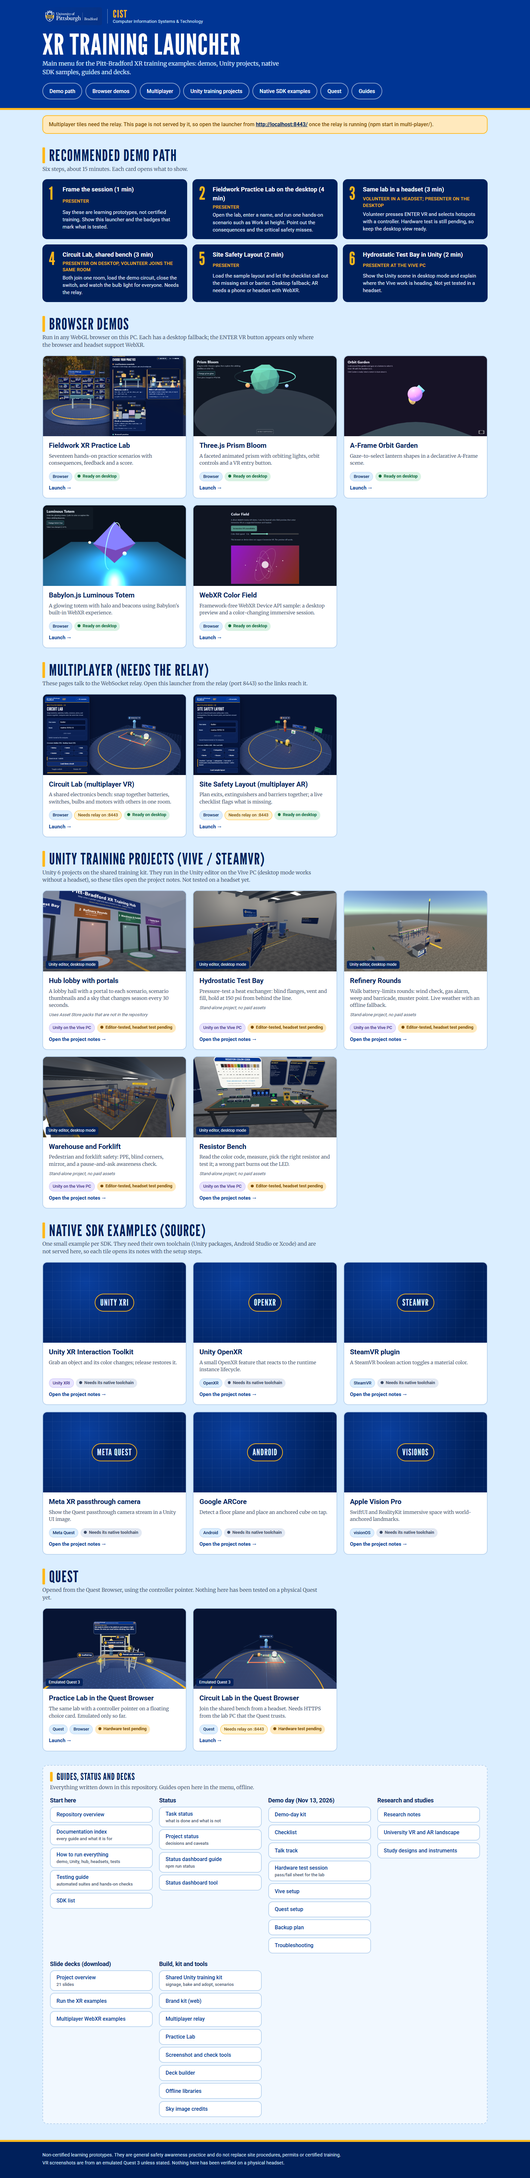
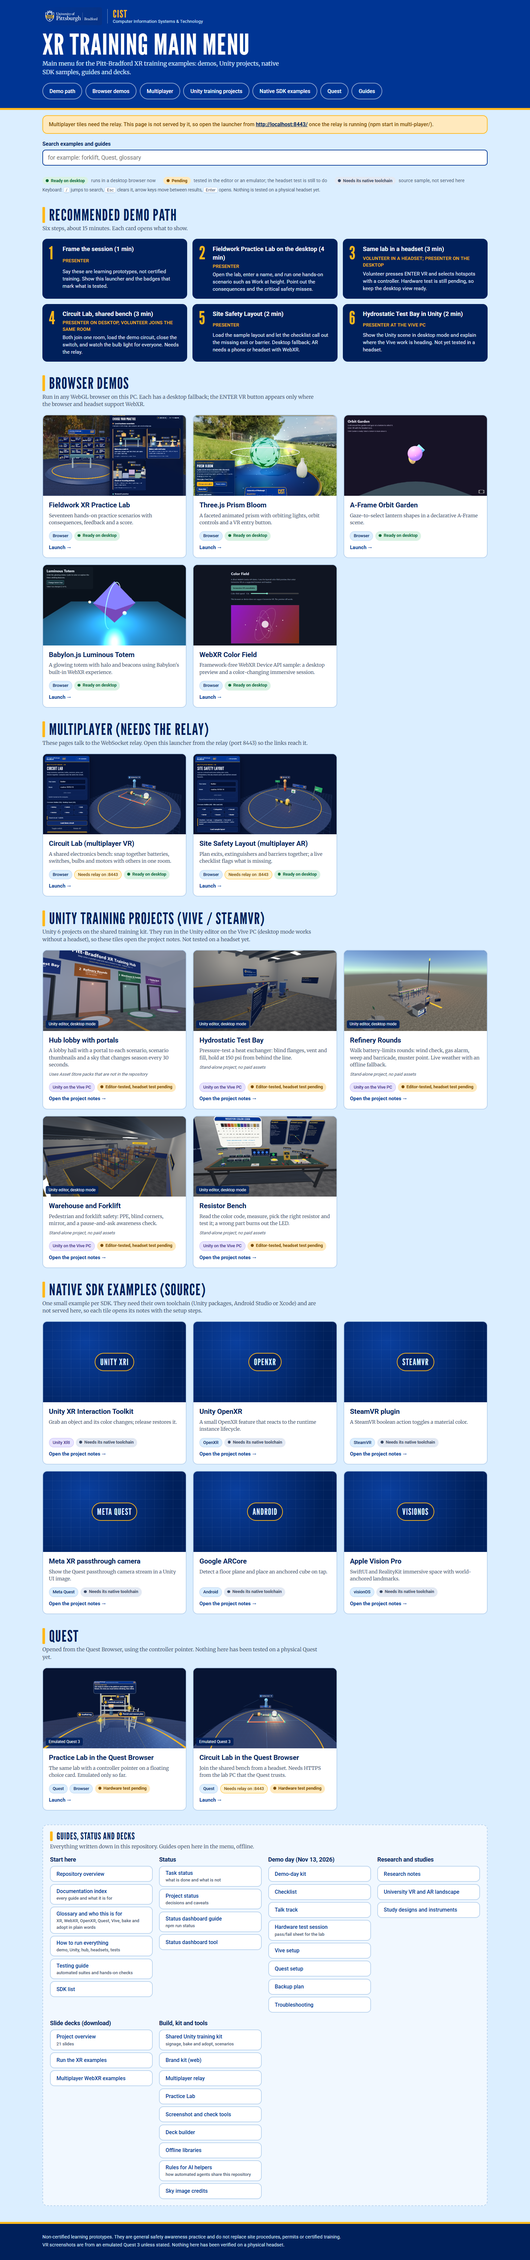
Docs: docs-check script, glossary, demo-day quick start, native sample verification notes, menu search and legend

diff --git a/launcher/launcher.js b/launcher/launcher.js
@@ -40,6 +40,7 @@
       el("span", { class: "go", text: ex.webServed === false ? "Open the project notes" : "Launch" })
     ]);
     var a = el("a", { class: "tile", href: /\.md$/i.test(ex.url) ? "launcher/doc.html?f=" + encodeURIComponent(ex.url) : ex.url, id: "tile-" + ex.id }, [shot, body]);
+    a.setAttribute("data-search", [ex.title, ex.summary, ex.note, ex.status, ex.badges.join(" "), ex.id].join(" ").toLowerCase());
     a.setAttribute("aria-label", ex.title + ". " + ex.status + ". " + ex.badges.join(", ") + (ex.note ? ". " + ex.note : ""));
     return a;
   }
@@ -95,7 +96,7 @@
       var ul = el("ul");
       g.links.forEach(function (t) {
         var href = /\.md$/i.test(t.url) ? "launcher/doc.html?f=" + encodeURIComponent(t.url) : t.url;
-        var a = el("a", { href: href, id: "guide-" + t.id }, [document.createTextNode(t.title), t.note ? el("small", { text: t.note }) : null]);
+        var a = el("a", { href: href, id: "guide-" + t.id, "data-search": [t.title, t.note || "", g.title, t.id].join(" ").toLowerCase() }, [document.createTextNode(t.title), t.note ? el("small", { text: t.note }) : null]);
         ul.appendChild(el("li", {}, [a]));
       });
       groups.appendChild(el("section", { class: "group", "aria-labelledby": "g-" + g.id }, [el("h3", { id: "g-" + g.id, text: g.title }), ul]));
@@ -114,12 +115,53 @@
     }
   }
 
+  // Search / filter: client-side only. Tiles and guide links carry a data-search string.
+  function setupFinder() {
+    var q = document.getElementById("q"), clear = document.getElementById("clear"), count = document.getElementById("count");
+    var links = [].slice.call(document.querySelectorAll("#sections .tile, #tools .group a"));
+    var path = document.getElementById("path");
+    q.disabled = false;
+
+    function apply() {
+      var terms = q.value.toLowerCase().split(/\s+/).filter(Boolean), shown = 0;
+      links.forEach(function (a) {
+        var hay = a.getAttribute("data-search"), ok = terms.every(function (t) { return hay.indexOf(t) >= 0; });
+        var holder = a.classList.contains("tile") ? a : a.parentNode; // guide links sit in an li
+        holder.hidden = !ok;
+        if (ok) shown++;
+      });
+      [].forEach.call(document.querySelectorAll("section.block[id^=sec-], .group"), function (sec) {
+        sec.hidden = !!terms.length && !sec.querySelector(sec.classList.contains("group") ? "li:not([hidden])" : ".tile:not([hidden])");
+      });
+      path.hidden = !!terms.length;
+      document.getElementById("tools").hidden = !!terms.length && !document.querySelector("#tools li:not([hidden])");
+      clear.hidden = !terms.length;
+      count.textContent = terms.length ? (shown ? shown + " match" + (shown === 1 ? "" : "es") + " for “" + q.value.trim() + "”." : "Nothing matches “" + q.value.trim() + "”. Try a shorter word.") : "";
+    }
+    function visible() { return links.filter(function (a) { return !a.closest("[hidden]"); }); }
+
+    q.addEventListener("input", apply);
+    clear.addEventListener("click", function () { q.value = ""; apply(); q.focus(); });
+    document.addEventListener("keydown", function (e) {
+      var tag = (e.target.tagName || "").toLowerCase();
+      if (e.key === "/" && tag !== "input" && !e.ctrlKey && !e.metaKey && !e.altKey) { e.preventDefault(); q.focus(); q.select(); return; }
+      if (e.key === "Escape" && (q.value || document.activeElement === q)) { q.value = ""; apply(); q.blur(); return; }
+      var list = visible(), i = list.indexOf(document.activeElement), k = e.key;
+      if (e.target === q && k === "ArrowDown" && list.length) { e.preventDefault(); list[0].focus(); return; }
+      if (i < 0) return;
+      var next = k === "ArrowRight" || k === "ArrowDown" ? i + 1 : k === "ArrowLeft" || k === "ArrowUp" ? i - 1 : k === "Home" ? 0 : k === "End" ? list.length - 1 : null;
+      if (next === null) return;
+      e.preventDefault();
+      if (next < 0) q.focus(); else if (list[next]) list[next].focus();
+    });
+  }
+
   // The Pitt-Bradford + CIST brand bar is built by brand-kit/brand.js (logo if the local file exists, else a wordmark).
 
   fetch("launcher/examples.json").then(function (r) {
     if (!r.ok) throw new Error("HTTP " + r.status);
     return r.json();
-  }).then(render).catch(function (err) {
+  }).then(function (data) { render(data); setupFinder(); }).catch(function (err) {
     document.getElementById("sections").appendChild(el("p", { class: "noscript", text: "Could not load launcher/examples.json (" + err.message + "). Serve this folder over http, for example python -m http.server 8101." }));
   });
 })();

diff --git a/index.html b/index.html
@@ -3,7 +3,7 @@
 <head>
   <meta charset="utf-8">
   <meta name="viewport" content="width=device-width, initial-scale=1">
-  <title>XR Training Launcher · Pitt-Bradford CIST</title>
+  <title>XR Training Main Menu · Pitt-Bradford CIST</title>
   <meta name="description" content="Launch the Pitt-Bradford XR training examples: browser demos, multiplayer, Vive and Quest.">
   <link rel="stylesheet" href="brand-kit/brand.css">
   <link rel="stylesheet" href="launcher/launcher.css">
@@ -14,13 +14,28 @@
   <header class="top">
     <div class="wrap top-inner">
       <div class="brand" data-pitt-brand></div>
-      <h1>XR Training Launcher</h1>
+      <h1>XR Training Main Menu</h1>
       <p class="lede" id="subtitle">Pitt-Bradford XR training examples. Pick a tile to launch it.</p>
       <nav class="jump" aria-label="Sections" id="jump"></nav>
     </div>
   </header>
 
   <div id="relay-note" class="wrap relay-note" hidden role="note"></div>
+
+  <div class="wrap finder" role="search">
+    <label for="q">Search examples and guides</label>
+    <div class="finder-row">
+      <input type="search" id="q" placeholder="for example: forklift, Quest, glossary" autocomplete="off" aria-controls="sections tools" disabled>
+      <button type="button" id="clear" hidden>Clear</button>
+    </div>
+    <p id="count" class="count" role="status" aria-live="polite"></p>
+    <ul class="legend" aria-label="What the status badges mean">
+      <li><span class="badge status ready">Ready on desktop</span> runs in a desktop browser now</li>
+      <li><span class="badge status pending">Pending</span> tested in the editor or an emulator; the headset test is still to do</li>
+      <li><span class="badge status planned">Needs its native toolchain</span> source sample, not served here</li>
+    </ul>
+    <p class="hint">Keyboard: <kbd>/</kbd> jumps to search, <kbd>Esc</kbd> clears it, arrow keys move between results, <kbd>Enter</kbd> opens. Nothing is tested on a physical headset yet.</p>
+  </div>
 
   <main id="main" class="wrap">
     <noscript><p class="noscript">This launcher needs JavaScript to list the examples. The folders a-frame, threejs, babylonjs, webxr, training-simulations and multi-player can still be opened directly.</p></noscript>

diff --git a/launcher/launcher.css b/launcher/launcher.css
@@ -165,3 +165,20 @@ a:focus-visible, button:focus-visible {
 .tools .group ul { flex-direction: column; flex-wrap: nowrap; gap: 0.4rem; margin-top: 0.4rem; }
 .tools .group a { display: flex; flex-direction: column; align-items: flex-start; justify-content: center; border-radius: 0.8rem; }
 .tools .group small { margin: 0; font-size: 0.82rem; }
+
+/* search, legend, keyboard hint */
+[hidden] { display: none !important; }
+.finder { padding: 1.2rem 0 0; }
+.finder label { display: block; font-weight: 700; color: var(--navy); margin-bottom: 0.35rem; }
+.finder-row { display: flex; gap: 0.6rem; }
+.finder input[type="search"] {
+  flex: 1; min-width: 0; font: inherit; font-size: 1.1rem; min-height: 3rem; padding: 0.5rem 0.9rem;
+  border: 2px solid var(--royal); border-radius: 0.6rem; background: #fff; color: var(--ink);
+}
+.finder input[type="search"]:focus-visible { outline: 0.25rem solid var(--gold); outline-offset: 0.15rem; }
+.finder button { font: inherit; font-weight: 700; min-height: 3rem; padding: 0 1.2rem; border-radius: 0.6rem; border: 2px solid var(--royal); background: var(--royal); color: #fff; cursor: pointer; }
+.count { min-height: 1.4rem; margin: 0.4rem 0 0; color: var(--navy); font-weight: 500; }
+.legend { list-style: none; margin: 0.4rem 0 0; padding: 0; display: flex; flex-wrap: wrap; gap: 0.5rem 1.4rem; font-size: 0.9rem; color: var(--muted); }
+.legend .badge { margin-right: 0.3rem; }
+.hint { margin: 0.5rem 0 0; font-size: 0.85rem; color: var(--muted); }
+kbd { font: inherit; font-size: 0.8rem; border: 1px solid var(--line); border-bottom-width: 2px; border-radius: 0.3rem; padding: 0 0.35rem; background: #fff; }

diff --git a/docs/GLOSSARY.md b/docs/GLOSSARY.md
@@ -1,0 +1,53 @@
+# Glossary and who this is for
+
+Plain-language meanings of the terms used in this repository, written for the advisory board, employers and faculty. Nothing here assumes you have used a headset.
+
+General safety-awareness practice only: none of the scenarios is a procedure, permit or certification. Nothing in this repository has been verified on a real Vive Pro 2 or Meta Quest yet; the guides say what was actually run (desktop browsers, the Unity editor, an emulated Quest 3).
+
+## Who is this for?
+
+| If you are... | Start with | What you will get |
+|---|---|---|
+| An employer or advisory-board member | The main menu, then [demo-day/TALK-TRACK.md](demo-day/TALK-TRACK.md) | A short demo path: the browser practice lab, a shared multi-user bench and the Unity training scenes, with the limits stated |
+| A faculty member (industrial, energy, biology) | [research/README.md](research/README.md) and the scenario list in [../training-simulations/README.md](../training-simulations/README.md) | What each scenario teaches, what is a draft for review, and study ideas |
+| A student or instructor who will run it | [HOW-TO-RUN.md](HOW-TO-RUN.md) | The three-step quick start and the full run guide |
+| A developer extending it | [../CLAUDE.md](../CLAUDE.md), [README.md](README.md) and [../SDK-list.md](../SDK-list.md) | Repository conventions, the documentation index and the SDK samples |
+| Setting up a headset | [demo-day/VIVE-SETUP.md](demo-day/VIVE-SETUP.md) or [demo-day/QUEST-SETUP.md](demo-day/QUEST-SETUP.md) | Steps for the first hardware session (still to be run) |
+
+## Terms
+
+**XR (extended reality).** The umbrella word for virtual, mixed and augmented reality together.
+
+**VR (virtual reality).** A headset replaces what you see with a computer-made place. Used here for training you could not do safely or cheaply in real life.
+
+**AR (augmented reality).** Computer graphics are added on top of the real world, usually seen through a phone or tablet camera.
+
+**MR (mixed reality).** A headset shows the real room and virtual objects together, so virtual things can sit on a real table. Meta Quest headsets do this with passthrough cameras.
+
+**WebXR.** A browser standard that lets a web page show VR or AR. Our web demos use it, so a headset only needs its browser: no app install. Where a browser or headset does not support it, the pages fall back to a normal desktop view.
+
+**OpenXR.** An open industry standard that lets one program talk to many different headsets. The Unity projects use it, so the same project can target different headsets.
+
+**SteamVR.** Valve's software that runs PC virtual reality and connects the PC to the HTC Vive Pro 2. It acts as the "OpenXR runtime" (the program that actually drives the headset) on the Vive PC.
+
+**Meta Quest.** A family of standalone headsets from Meta. The web demos are opened in the Quest Browser, over the same Wi-Fi as the demo PC. Untested on a physical Quest so far.
+
+**HTC Vive Pro 2.** A high-resolution PC-connected headset (used here wirelessly on a gaming desktop). Untested so far; [demo-day/HARDWARE-TEST-SESSION.md](demo-day/HARDWARE-TEST-SESSION.md) is the sheet for the first run.
+
+**Unity.** The game engine used for the Vive training projects. They also run on a desktop with mouse and keyboard, which is how they have been checked.
+
+**Relay.** A small program on the demo PC that passes messages between people in the same room, so several users see the same shared bench or layout. It needs no internet at demo time.
+
+**Practice Lab.** The browser example of 17 short hands-on safety-awareness scenarios, in [../training-simulations/README.md](../training-simulations/README.md). Wrong actions show their consequence; one scenario is a labelled draft for faculty review.
+
+**Hub (lobby).** A Unity scene where you walk onto a pad, called a portal, to load one of the four training projects. It uses commercial Asset Store packs that are kept on the development PC, not in the repository.
+
+**Bake and adopt.** The Unity scenes used to be built entirely by code each time they started. "Bake" saves what the code built into the scene file so it can be seen and edited in the editor; "adopt" means that at start the code reuses those saved objects instead of building duplicates, so edits survive. See [../vive-steamvr/packages/com.pittbradford.xrtraining/README.md](../vive-steamvr/packages/com.pittbradford.xrtraining/README.md).
+
+**Rocketbox people.** The animated human characters (Microsoft Rocketbox library) placed in the hub's warehouse and refinery scenes, including the co-worker who walks past in the awareness check. They are licensed local assets and are not committed to the repository.
+
+**Season sky.** The sky behind the web pages changes through the four seasons about every 30 seconds with a short pixelate and scan-line transition. The images and credits are in [../assets/skies/CREDITS.md](../assets/skies/CREDITS.md); the brand kit describes the code in [../brand-kit/README.md](../brand-kit/README.md).
+
+**Emulated Quest 3.** A desktop browser pretending to be a Quest 3, used to take VR-style screenshots. Pictures labelled this way are not photos from a real headset.
+
+**Awareness check.** In the Warehouse scenario, a moment where the scene pauses and asks three short questions about what you just noticed. It is scored separately from the task score.

diff --git a/docs/HOW-TO-RUN.md b/docs/HOW-TO-RUN.md
@@ -2,11 +2,21 @@
 
 One page for running every part of this repository. Pick the row that matches what you want to do, then follow that section. Status as of November 1, 2026: **all of this has been run on a Windows development PC, in the Unity editor, in desktop browsers and in an emulated Quest 3. Nothing has been run on a real Vive Pro 2 or Quest yet**; use [demo-day/HARDWARE-TEST-SESSION.md](demo-day/HARDWARE-TEST-SESSION.md) for that first run.
 
+## Quick start for demo day
+
+Three steps on the demo PC (Windows, Node.js 22 or newer installed, `npm install` already done once while online):
+
+1. Double-click `scripts\start-demo.cmd`. It starts one HTTPS server on port 8443 and opens the main menu at `https://localhost:8443/`. (Add `/dashboard` to also open the status dashboard.)
+2. On a Quest or phone on the same Wi-Fi, open one of the `https://<PC address>:8443/` addresses the window prints and accept the certificate warning once. For the Vive, start SteamVR, then open the same page in desktop Chrome or Edge.
+3. Everyone who shares an activity types the same room name. Stop with Ctrl+C in the server window.
+
+If the web demo does not start, open [demo-day/BACKUP-PLAN.md](demo-day/BACKUP-PLAN.md). Verified: the script and server were run on the development PC and in an emulated Quest 3; the headset steps have not been tried on real hardware.
+
 | I want to... | Go to |
 |---|---|
 | Find any guide, status page or deck | The **main menu** (the launcher that opens with the demo) or [README.md](README.md), the documentation index |
 | Run the demo for people (launcher, Practice Lab, multiplayer) | [1. Run the demo](#1-run-the-demo-web-launcher-practice-lab-multiplayer) |
-| Try the Unity training projects at a desk or on the Vive | [2. Unity projects](#2-unity-projects-01-04) |
+| Try the Unity training projects at a desk or on the Vive | [2. Unity projects](#2-unity-projects-01-to-04) |
 | Walk through the lobby with portals | [3. The hub lobby](#3-the-hub-lobby-local-only) |
 | Use a headset (Vive Pro 2 or Quest) | [4. Headsets](#4-headsets) |
 | Check that nothing broke | [5. Tests](#5-tests-and-checks) and the full [TESTING.md](TESTING.md) checklist |
@@ -112,12 +122,12 @@ Run from the repository root unless noted. Each prints pass and fail counts; the
 
 | What | Command | Expected today |
 |---|---|---|
-| Practice Lab scenario data | `cd training-simulations`, then `node --test test/scenarios.test.mjs test/biology.test.mjs` (plus any other file in `test/`) | all pass |
+| Practice Lab scenario data | `cd training-simulations`, then `node --test test/*.test.mjs` | 20 pass |
 | Multiplayer relay | `cd multi-player`, then `npm test` | 18 pass |
-| Brand kit | `cd brand-kit`, then `npm test` | 5 pass |
+| Brand kit | `cd brand-kit`, then `npm test` | 16 pass |
 | Offline check (no network) | `node tools/vr-capture/offline-check.mjs` | all pages ok |
 | Launcher check | `node tools/vr-capture/launcher-check.mjs` | pass |
-| Web UI layout check (desktop and phone width) | `node tools/vr-capture/ui-check.mjs` | all pass |
+| Web UI layout check (desktop and phone width) | `node tools/vr-capture/ui-check.mjs` | 48 pass |
 | Unity compile | open the project; the Console must show no red errors | no errors |
 
 Some checks start their own server on a free port; stop a leftover server by its process ID if a port is busy (see section 7). To record a result for the dashboard: `node tools/status/record-results.cjs "<suite>" <passed> <failed> <skipped>`.

diff --git a/docs/PROJECT-STATUS.md b/docs/PROJECT-STATUS.md
@@ -126,3 +126,9 @@ Last updated: November 1, 2026 (evening).
 - The warehouse co-worker is a Rocketbox avatar through `CoWorker.ModelFactory` (`PeopleLibrary`). Verified in the editor: walks in the Walk state, freezes at the awareness pause, scripted self-test PASS (`ShotRunner`). Not verified: headset, frame rate, hand play.
 - Found and fixed: `HubDressing.Spawn` reset the prefab root scale, so the 100x Courtyard props (generator, floodlights) came out about 100 m wide. It now keeps the prefab scale (also affects the Hydro scene's props, which should be re-checked).
 - Open: the Sci-Fi shipping containers render near black; the IG container was used in the warehouse. Triangle count is about 1.4-1.5 M per scene; optimise before relying on a Vive Pro 2 frame rate. Screenshots are editor desktop renders.
+
+## Documentation audit (November 3, 2026)
+
+- `npm run docs-check` (tools/docs-check/check.mjs) checks every relative Markdown link, image and anchor, every launcher path, that docs/README.md links every guide under docs/, and that the pass counts quoted in TESTING.md and HOW-TO-RUN.md equal a fresh run of the three unit suites (20, 16, 18). First run found one broken anchor (HOW-TO-RUN) and stale counts (brand kit 5 vs 16); both fixed.
+- New: docs/GLOSSARY.md (terms and who-is-this-for), "Quick start for demo day" at the top of HOW-TO-RUN.md, and "Run it" / "What was verified" sections in the six native SDK sample READMEs. None of those samples was compiled or run on hardware in this pass.
+- Main menu: search box (client-side, works offline), keyboard navigation (`/`, arrows, Esc), a status legend; launcher-check.mjs now tests them and refreshed docs/images/launcher*.png (plus launcher-search.png).

diff --git a/docs/Task-Status.md b/docs/Task-Status.md
@@ -76,5 +76,6 @@ Legend: ✅ done · 🔄 in progress · ⏳ waiting on a prerequisite · 👤 ne
 | F3 | Decide whether to push to GitHub | ✅ | pushed Nov 2, 2026 (to commit 3b81dcc, branch main); later work (baked scenes) will be committed and pushed when the owner asks |
 | F4 | Main menu for everything in the repo | ✅ | launcher now lists the browser demos, multiplayer, hub + four Unity projects, six native SDK samples, Quest pages, and 31 guide/deck links; guides open offline in launcher/doc.html; launcher-check covers 20 tiles, 31 links and all 39 guides |
 | F5 | Documentation index | ✅ | docs/README.md lists every guide by purpose; linked from the root README, HOW-TO-RUN and the menu |
+| F6 | Docs check, glossary, menu search | ✅ | `npm run docs-check`; docs/GLOSSARY.md; launcher search box, keyboard navigation and status legend |
 | G1 | Real-looking people (Microsoft Rocketbox avatars, MIT) in the hub scenes | 🔄 | Done for Warehouse (8 people + Rocketbox walking co-worker; scripted self-test PASS in the editor, freezes with the pause) and Refinery (8 people incl. a pair that follows the muster point). Other scenes (Lobby, Hydro, Resistor) still to do. Editor desktop only; no headset |
 | G2 | Dress the hub scenes with many more pack props (refinery, warehouse, resistor bench, lobby, hydro) | 🔄 | Warehouse and Refinery dressed (HubSceneDressing.cs, rebuildable; editor renders in docs/images/hub-dressed-*.png). Resistor bench, lobby, hydro still to do. About 1.4-1.5 M triangles in the editor: not optimised, no frame rate measured |

diff --git a/docs/README.md b/docs/README.md
@@ -15,13 +15,15 @@ General safety-awareness practice only: none of the scenarios is a procedure, pe
 | Prepare for demo day (Nov 13, 2026) | [demo-day/README.md](demo-day/README.md) |
 | Test on the real headsets | [demo-day/HARDWARE-TEST-SESSION.md](demo-day/HARDWARE-TEST-SESSION.md) |
 | Understand the research and study ideas | [research/README.md](research/README.md) |
+| Learn the terms (XR, WebXR, OpenXR, bake and adopt) and who each guide is for | [GLOSSARY.md](GLOSSARY.md) |
 | Pick up the work in a new session | [../CLAUDE.md](../CLAUDE.md) and [agents/AGENT-RULES.md](agents/AGENT-RULES.md) |
 
 ## Running and testing
 
 | Guide | What it covers |
 |---|---|
-| [HOW-TO-RUN.md](HOW-TO-RUN.md) | One page for everything: the demo server, Unity projects (desktop and headset), the hub lobby, tests, screenshots, decks, troubleshooting |
+| [GLOSSARY.md](GLOSSARY.md) | Plain-language terms and a who-is-this-for table, for the advisory board and faculty |
+| [HOW-TO-RUN.md](HOW-TO-RUN.md) | One page for everything: a three-step quick start for demo day, the demo server, Unity projects (desktop and headset), the hub lobby, tests, screenshots, decks, troubleshooting |
 | [TESTING.md](TESTING.md) | The automated suites with expected counts, and hands-on check tables (desktop Unity D1-D14, baked scenes B1-B4, lobby L1-L6, web W1-W6) |
 | [demo-day/HARDWARE-TEST-SESSION.md](demo-day/HARDWARE-TEST-SESSION.md) | Pass/fail sheet for the first lab run on the Vive Pro 2 and Quest |
 

diff --git a/docs/TESTING.md b/docs/TESTING.md
@@ -13,7 +13,8 @@ Status on November 2, 2026: every automated suite below passes on the developmen
 | Multiplayer relay | `cd multi-player`, then `npm test` | 18 pass |
 | Web UI layout, desktop and phone width, logo blocked and allowed | start the relay (see HOW-TO-RUN section 1), then `node tools/vr-capture/ui-check.mjs` (set `UI_BASE` if the relay is not on port 8132) | 48 pass |
 | Offline check (no network, no external requests) | `node tools/vr-capture/offline-check.mjs` (`STATIC_BASE` and `RELAY_BASE` select the server) | all pages ok |
-| Launcher check | `node tools/vr-capture/launcher-check.mjs` (set `LAUNCHER_URL`, for example `http://localhost:8132/`, if the server is not on port 8101) | pass |
+| Launcher check (tiles, guide links, in-menu viewer, search box and keyboard) | `node tools/vr-capture/launcher-check.mjs` (set `LAUNCHER_URL`, for example `http://localhost:8132/`, if the server is not on port 8101) | pass |
+| Documentation (every link, anchor, launcher path, docs index, and the pass counts above against a fresh run) | `npm run docs-check` (add `--no-run` to skip running the suites) | ok |
 | Unity compile | open each project; the Console shows no red errors | no errors |
 
 Record a result for the dashboard with `node tools/status/record-results.cjs "<suite>" <passed> <failed> <skipped>`.

diff --git a/unity-xri/README.md b/unity-xri/README.md
@@ -27,3 +27,11 @@ Official references:
 5. Run with a connected headset/controller or the XR Device Simulator sample. Select/grab the cube to see the color feedback.
 
 The component subscribes to XRI 3.0's `selectEntered` and `selectExited` events. It does not create an XR Origin, interaction manager, input actions, or platform loader automatically.
+
+## Run it
+
+Toolchain: Unity 2022.3 LTS or newer (the shared training projects in this repository use 6000.3.20f1) plus the packages above. Follow Setup, press Play with the XR Device Simulator, and grab the cube; it turns green and returns to its original color on release.
+
+## What was verified
+
+Only the script source and this setup text were reviewed. The script was **not compiled or run in a Unity project here, and nothing was run on a headset.** XR Interaction Toolkit 3.x moved interactable classes into namespaces such as `UnityEngine.XR.Interaction.Toolkit.Interactables`; if your XRI version reports a missing type, add that `using` line or let Unity's API Updater fix it.

diff --git a/openxr/README.md b/openxr/README.md
@@ -27,3 +27,11 @@ Official references:
 6. Build and run with a headset connected and the intended OpenXR runtime active. The Unity Console/player log should report the instance creation callback.
 
 No scene object is needed: OpenXR features are selected in project settings and invoked by the OpenXR provider. This sample is intentionally limited to that callback; it does not implement input, rendering, or runtime selection.
+
+## Run it
+
+Toolchain: Unity 2022.3 LTS or newer with the OpenXR Plugin and XR Plug-in Management. After Setup, enter Play or build a PC player with the headset connected, and look in the Console or player log for the instance-created message from the feature.
+
+## What was verified
+
+Only the script source and this setup text were reviewed. The feature was **not compiled or run in a Unity project here, and no OpenXR runtime or headset was used.** The `[OpenXRFeature]` attribute only registers the feature in the editor, so it appears in the feature list only after Unity has compiled the script.

diff --git a/meta-xr/README.md b/meta-xr/README.md
@@ -27,3 +27,11 @@ Official references:
 5. Deploy to a supported Quest device, grant camera permission when prompted, and verify the UI reports that the camera is streaming.
 
 The script waits for `PassthroughCameraAccess.IsPlaying`, then assigns `GetTexture()` to the preview. It does not request permission itself; configure the app permission and use the documented Meta permission flow. No camera texture is available in the Editor simulator.
+
+## Run it
+
+Toolchain: Unity 6000.0.38f1 or newer, MRUK v81 or newer, Android build support, and a Quest 3 or 3S on Horizon OS v74 or newer. Follow Setup, build and run to the headset, grant the camera permission, and the preview shows the passthrough camera stream.
+
+## What was verified
+
+Only the script source and this setup text were reviewed against Meta's documentation. The script was **not compiled or run here, and nothing was run on a Quest.** The XR Simulator cannot test it.
